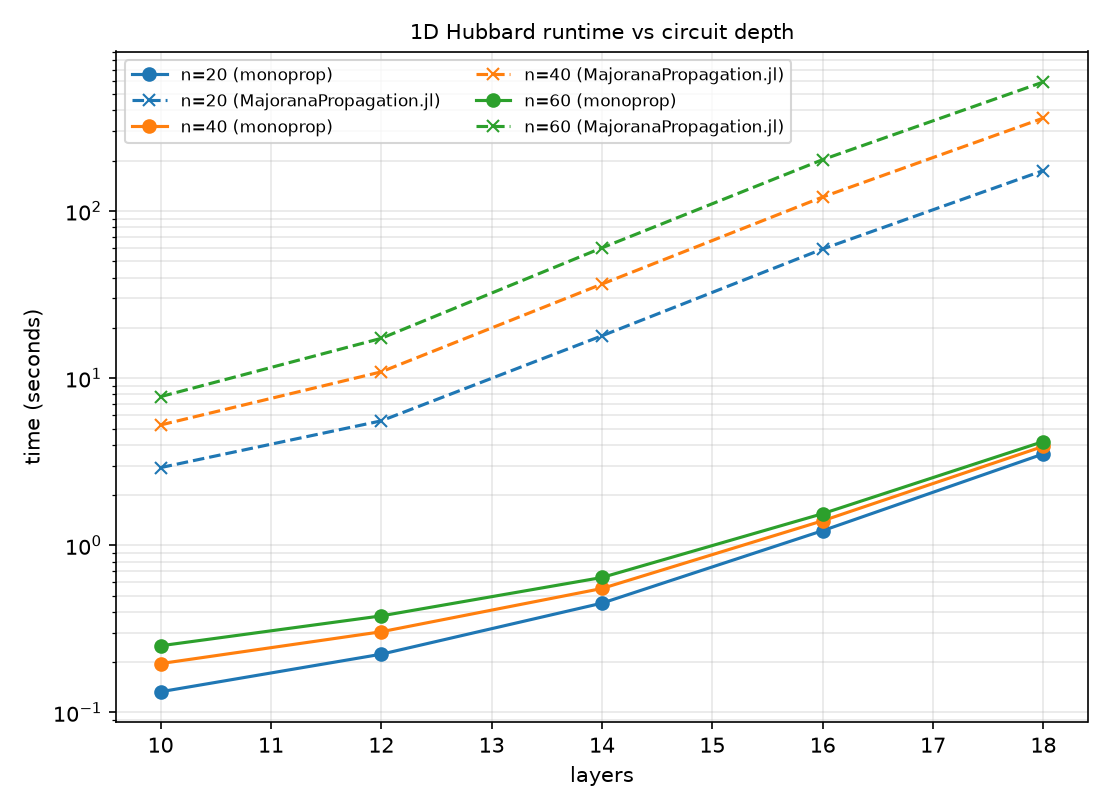
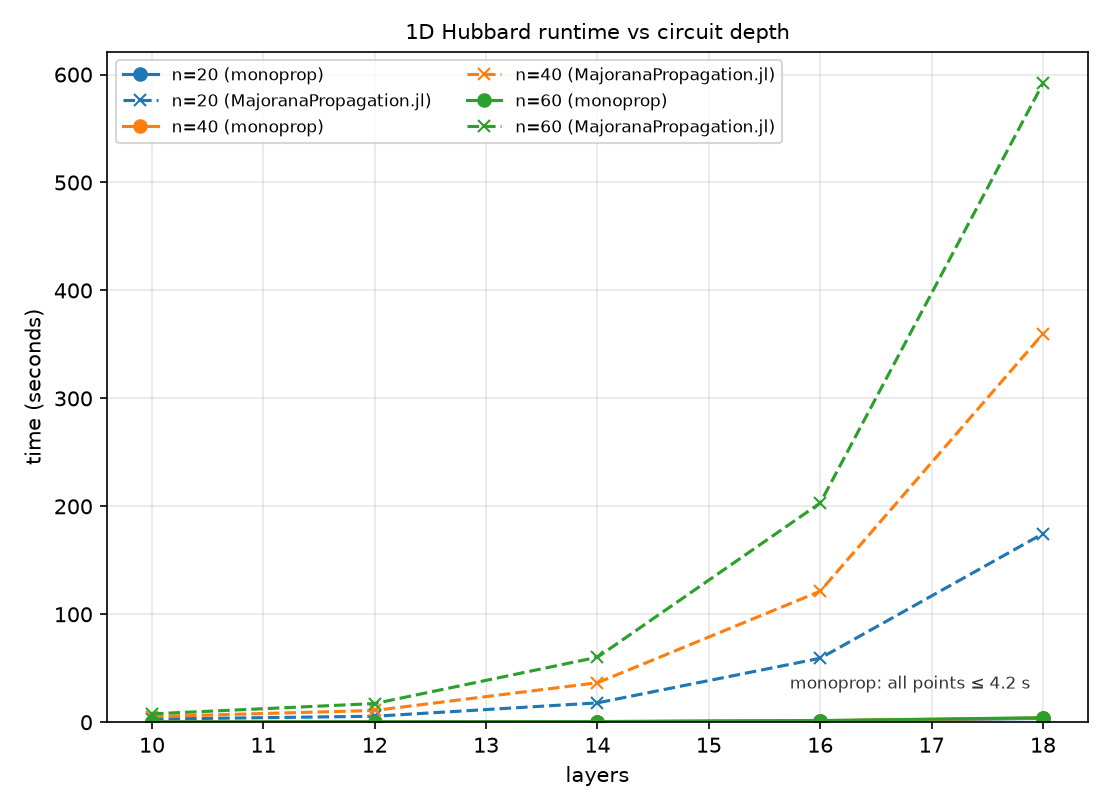
bench(majorana): 📊 draw the Hubbard runtime figure on linear axes
Seconds are read as seconds: on a linear y the Julia engine's 591 s at 60 sites /
18 layers stands 140x the height of monoprop's 4.2 s, where a log axis compressed
that into the width of a decade. It does press monoprop's three curves onto the
bottom of the axis, so the figure annotates the top of that band — flat here means
small, not zero — and the docs point at the combined figure for monoprop's own
growth with depth.

Assisted-by: ClaudeCode:claude-opus-5

diff --git a/benches/third_party/majorana_prop/plot_results.py b/benches/third_party/majorana_prop/plot_results.py
@@ -63,17 +63,32 @@ def plot_metric(ax, data: pd.DataFrame, metric: str, ylabel: str) -> None:
 
 
 def plot_runtime_figure(df: pd.DataFrame, out: Path) -> None:
-    """Save the runtime panel on its own canvas.
+    """Save the runtime on its own canvas, both axes linear.
 
-    Runtime is the quantity that gets cited on its own, and it is the one panel the combined
-    figure serves worst: on a shared linear axis monoprop's 0.1-4 s curves collapse onto the
-    axis line beneath the Julia engine's 3-600 s. Log y here separates the two bands.
+    Runtime is the quantity that gets cited on its own, so it gets its own file rather than a
+    quarter of the combined grid. Both axes are linear: seconds are read as seconds, so the
+    600 s the Julia engine spends at the largest point is drawn 140x the height of monoprop's
+    4 s instead of being compressed into a decade's width. That flattens monoprop's own curve
+    against the axis, which is the finding, not a defect of the axis.
     """
     fig, ax = plt.subplots(figsize=(7.4, 5.4))
     plot_metric(ax, df, "seconds", "time (seconds)")
-    ax.set_yscale("log")
-    ax.grid(True, which="both", alpha=0.3)
+    ax.set_ylim(bottom=0)
     ax.set_title("1D Hubbard runtime vs circuit depth", fontsize="medium")
+    # On this axis monoprop's three curves lie on top of each other along the bottom, where a
+    # reader cannot tell 4 s from 0 s. State the band's top so the flat lines read as small
+    # rather than as absent.
+    monoprop = df[df["source"] == "monoprop"]["seconds"]
+    if not monoprop.empty:
+        ax.annotate(
+            f"monoprop: all points ≤ {monoprop.max():.1f} s",
+            xy=(df["layers"].max(), monoprop.max()),
+            xytext=(-6, 14),
+            textcoords="offset points",
+            ha="right",
+            fontsize=8,
+            color="#333333",
+        )
     fig.tight_layout()
     fig.savefig(out, dpi=150)
     plt.close(fig)
